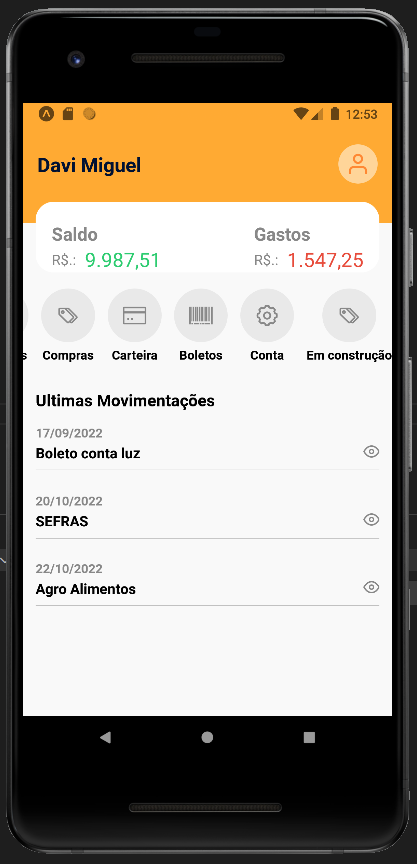
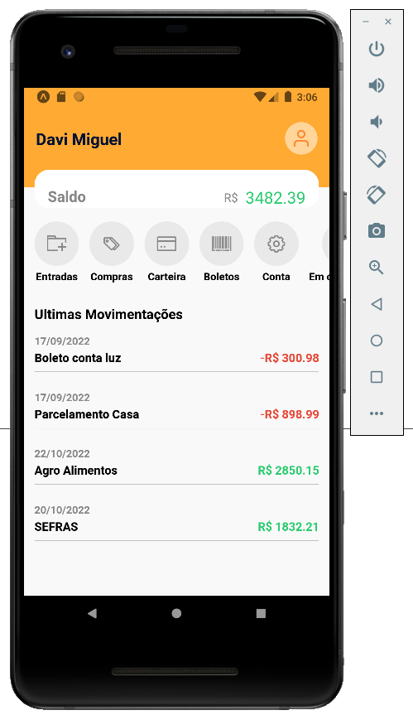
update 1.0.1

diff --git a/src/pages/Home/index.js b/src/pages/Home/index.js
@@ -1,5 +1,5 @@
-import { StatusBar } from 'expo-status-bar';
-import { StyleSheet, Text, View, TouchableOpacity, FlatList } from 'react-native';
+import React, {useState} from 'react';
+import { StyleSheet, Text, View, FlatList } from 'react-native';
 
 import Header from '../../components/Header'
 import Balance from '../../components/Balance';
@@ -10,31 +10,64 @@ const list = [
   {
     id: 1,
     label: 'Boleto conta luz',
-    value: '300,98',
+    value: 300.98,
     date: '17/09/2022',
     type: 0 //despesas
   },
   {
     id: 2,
-    label: 'SEFRAS',
-    value: '1.200,00',
-    date: '20/10/2022',
-    type: 1, //despesas
+    label: 'Parcelamento Casa',
+    value: 898.99,
+    date: '17/09/2022',
+    type: 0 //despesas
   },
   {
     id: 3,
     label: 'Agro Alimentos',
-    value: '2.850,00',
+    value: 2850.15,
     date: '22/10/2022',
-    type: 1, //despesas
-  }
+    type: 1, //credito
+  },
+  {
+    id: 4,
+    label: 'SEFRAS',
+    value: 1832.21,
+    date: '20/10/2022',
+    type: 1, //credito
+  },
 ]
 
 export default function Home() {
+  let [credit, setCredit] = useState('')
+  let [expense, setExpense] = useState('')
+
+
+  function Expense(){
+    let expense = 0
+    for(let i = 0; i < list.length; i++ ){
+      if (list[i].type === 0){
+        expense = expense + list[i].value
+      }
+    }
+    return expense.toFixed(2)
+  }
+  
+  function Credit(){
+    let credit = 0
+    let formatCredit = 0
+    for(let i = 0; i < list.length; i++ ){
+      if (list[i].type === 1){
+        credit = credit + list[i].value
+      }
+    }
+    credit = credit - Expense()
+    return credit.toFixed(2)
+  }
   return (
+
     <View style={styles.container}>
         <Header name='Davi Miguel'/>
-        <Balance saldo='9.987,51' gastos='1.547,25'/>
+        <Balance saldo={Credit()} gastos={Expense()}/>
         <Actions/>
         <Text style={styles.tittle}>
             Ultimas Movimentações

diff --git a/src/components/Balance/index.js b/src/components/Balance/index.js
@@ -2,7 +2,7 @@ import React from 'react';
 import { StyleSheet, Text, View } from 'react-native';
 
 
-export default function Balance({  saldo, gastos}) {
+export default function Balance({ saldo, gastos}) {
  return (
     <View style={styles.container}>
         <View style={styles.item}>
@@ -10,20 +10,9 @@ export default function Balance({  saldo, gastos}) {
             <Text style={styles.itemTittle}>Saldo</Text>
                 
             <View style={styles.content}>
-                <Text style={styles.currentSymbol}>R$.: </Text>
+                <Text style={styles.currentSymbol}>R$ </Text>
                 <Text style={styles.creditos}>{saldo}</Text>
             </View>
-
-        </View>
-        <View style={styles.item}>
-
-            <Text style={styles.itemTittle}>Gastos</Text>
-                
-            <View style={styles.content}>
-                <Text style={styles.currentSymbol}>R$.: </Text>
-                <Text style={styles.despesas}>{gastos}</Text>
-            </View>
-
         </View>
     </View>
   );
@@ -45,9 +34,13 @@ const styles = StyleSheet.create({
         paddingBotton: 22,
         zIndex: 99,
     },
-    item:{
 
+    item:{
+        flexDirection: 'row',
+        justifyContent: 'space-between',
+        width: '100%',
     },
+
     itemTittle:{
         fontSize: 20,
         color: '#888',
@@ -73,6 +66,5 @@ const styles = StyleSheet.create({
     despesas:{
         fontSize: 22,
         color: '#e74c3c'
-    }
-
+    },
 })

diff --git a/src/components/Moviments/index.js b/src/components/Moviments/index.js
@@ -12,7 +12,7 @@ export default function Moviments({ data }) {
             <View style={styles.content}>
                 <Text style={styles.label}>{data.label}</Text>
                 { showValue ? (
-                    <Text style={data.type === 1 ? styles.value : styles.despesas}>{data.type === 1 ? `R$.: ${data.value}` : `-R$.: ${data.value}`}</Text>
+                    <Text style={data.type === 1 ? styles.value : styles.despesas}>{data.type === 1 ? `R$ ${data.value}` : `-R$ ${data.value}`}</Text>
                 ) : (    
                     <View style={styles.skeleton}>
                         <Feather name="eye" size={18} color="#888"/>             
